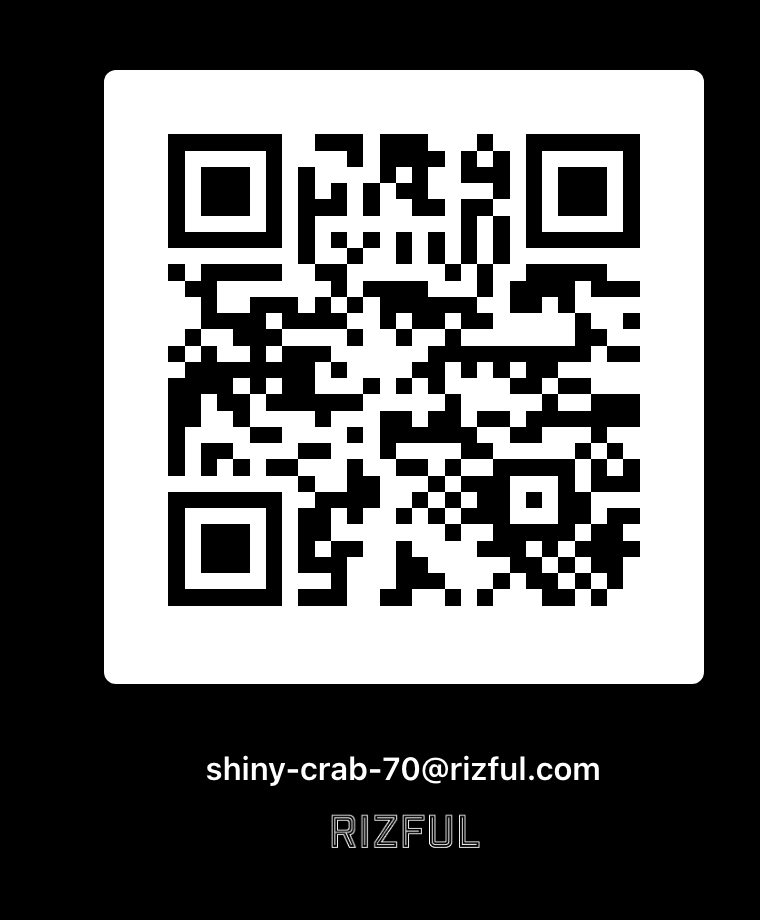
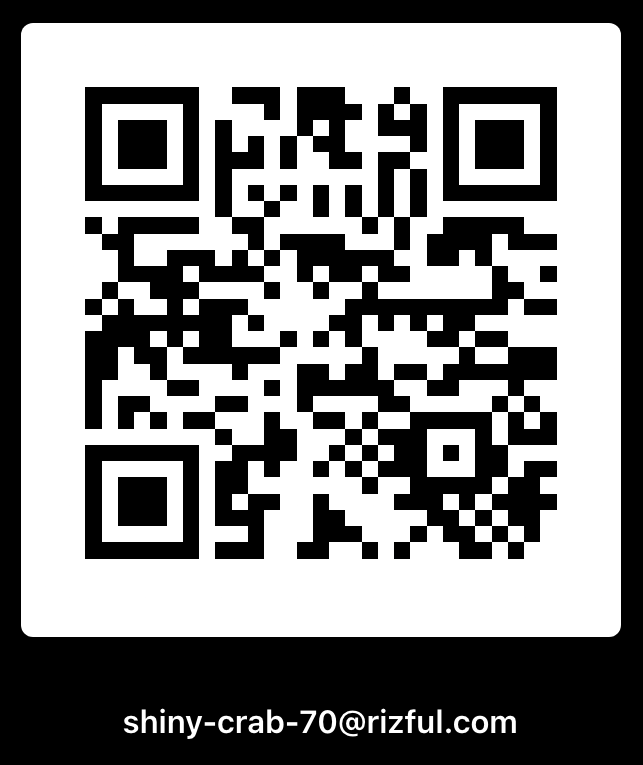
Update landing page, add Download link to sidebar

diff --git a/public/download/index.html b/public/download/index.html
@@ -331,7 +331,7 @@
     .about-col p { opacity: 0.82; line-height: 1.75; margin-bottom: 1.4rem; }
     .about-col .sec-title { margin-bottom: 1.2rem; }
     .qr-code {
-      width: 180px; height: auto;
+      width: 300px; height: auto;
       border-radius: 12px;
       margin-bottom: 1rem;
     }
@@ -342,7 +342,7 @@
       font-size: 0.82rem; opacity: 0.4;
       position: relative; z-index: 1;
     }
-    footer a { color: var(--color-3); text-decoration: none; }
+    footer a { color: #dc85ad; text-decoration: none; }
     footer a:hover { color: var(--color-4); }
 
     /* ── Device Frame Mockup ── */
@@ -552,8 +552,7 @@
         </div>
 
         <div class="card">
-          <span class="badge badge-purple">Standalone App</span>
-          <p>
+<p>
             NoorSigner is an independent desktop application that manages your
             Nostr private keys in a dedicated, secure process. It handles all
             signing operations so that your client never needs direct access to
@@ -570,10 +569,6 @@
           <!-- <div class="screenshot"><img src="noorsigner-screenshot.png" alt="NoorSigner screenshot"></div> -->
 
           <div class="btn-row">
-            <a href="https://github.com/77elements/noorsigner/releases" class="btn btn-outline btn-sm" target="_blank" rel="noopener">
-              <svg viewBox="0 0 24 24" fill="none" stroke="currentColor" stroke-width="2" stroke-linecap="round" stroke-linejoin="round"><path d="M21 15v4a2 2 0 0 1-2 2H5a2 2 0 0 1-2-2v-4"/><polyline points="7 10 12 15 17 10"/><line x1="12" y1="15" x2="12" y2="3"/></svg>
-              Downloads
-            </a>
             <a href="https://github.com/77elements/noorsigner" class="btn btn-ghost btn-sm" target="_blank" rel="noopener">
               <svg viewBox="0 0 24 24" fill="currentColor" width="18" height="18"><path d="M12 .3a12 12 0 0 0-3.8 23.4c.6.1.8-.3.8-.6v-2c-3.3.7-4-1.6-4-1.6-.6-1.4-1.4-1.8-1.4-1.8-1.1-.8.1-.7.1-.7 1.2.1 1.9 1.3 1.9 1.3 1.1 1.8 2.8 1.3 3.5 1 .1-.8.4-1.3.8-1.6-2.7-.3-5.5-1.3-5.5-5.9 0-1.3.5-2.4 1.2-3.2-.1-.3-.5-1.5.1-3.2 0 0 1-.3 3.4 1.2a11.5 11.5 0 0 1 6 0c2.3-1.5 3.3-1.2 3.3-1.2.7 1.7.3 2.9.1 3.2.8.8 1.2 1.9 1.2 3.2 0 4.6-2.8 5.6-5.5 5.9.4.4.8 1.1.8 2.2v3.3c0 .3.2.7.8.6A12 12 0 0 0 12 .3"/></svg>
               GitHub
@@ -606,16 +601,15 @@
           </div>
 
           <div class="card">
-            <span class="badge badge-green">Works Today</span>
-            <p>
+<p>
               NoorNote's web client runs inside
               <a href="https://keychat.io" target="_blank" rel="noopener" style="color:var(--color-4);text-decoration:none;font-weight:600;">Keychat</a>'s
-              built-in browser on both Android and iOS. Keychat is a Nostr-based
+              built-in browser on GrapheneOS, Android and iOS. Keychat is a Nostr-based
               messenger with Signal-level encryption that includes a full web
               browser with extension support.
             </p>
             <p>
-              Open <strong>noornote.app</strong> in Keychat's browser, sign in with
+              Open <strong>NoorNote</strong> in Keychat's Mini-Apps or browser, sign in with
               your Keychat identity, and you have a full Nostr client on your phone
               with your keys managed securely by Keychat itself.
             </p>
@@ -643,7 +637,7 @@
             <h2 class="sec-title"><span class="grad-text">About</span></h2>
             <p>
               NoorNote is built and maintained by
-              <a href="https://noornote.app/profile/npub175nul9cvufswwsnpy99lvyhg7ad9nkccxhkhusznxfkr7e0zxthql9g6w0" target="_blank" rel="noopener" style="color:var(--color-4);text-decoration:none;font-weight:600;">Alp</a>,
+              <a href="https://noornote.app/profile/npub175nul9cvufswwsnpy99lvyhg7ad9nkccxhkhusznxfkr7e0zxthql9g6w0" target="_blank" rel="noopener" style="color:var(--color-4);text-decoration:none;font-weight:600;">Alp</a> <a href="https://mslmdvlpmnt.com/" target="_blank" rel="noopener" style="color:var(--color-4);text-decoration:none;font-weight:600;">[ mslm dvlpmnt ]</a>,
               an independent developer passionate about decentralized
               communication and open-source software.
             </p>
@@ -652,25 +646,28 @@
               entirely by one person, without any grants or corporate backing.
               It is a labor of love for the Nostr ecosystem.
             </p>
-          </div>
-
-          <div class="about-col">
-            <h2 class="sec-title"><span class="grad-text">Support NoorNote</span></h2>
+            <p>
+              NoorNote does not use any tracking services, analytics, or cookies.
+              It does not collect any usage data.
+            </p>
             <p>
               NoorNote lives entirely from the support of its community.
               Every zap and donation helps keep this project alive,
               independent, and free for everyone.
             </p>
-
-            <p style="opacity:0.7;font-size:0.95rem;margin-bottom:0.6rem;">Support via Lightning</p>
-            <img src="rizful-payment-qr-shiny-crab-70.png" alt="Lightning QR Code" class="qr-code">
-
             <div class="btn-row" style="justify-content:flex-start;">
               <a href="https://noornote.app/profile/npub175nul9cvufswwsnpy99lvyhg7ad9nkccxhkhusznxfkr7e0zxthql9g6w0" class="btn btn-primary btn-sm" target="_blank" rel="noopener">
                 <svg viewBox="0 0 24 24" fill="none" stroke="currentColor" stroke-width="2" stroke-linecap="round" stroke-linejoin="round"><polygon points="13 2 3 14 12 14 11 22 21 10 12 10 13 2"/></svg>
                 Zap Me on Nostr
               </a>
             </div>
+          </div>
+
+          <div class="about-col">
+            <h2 class="sec-title"><span class="grad-text">Support NoorNote</span></h2>
+
+            <p style="opacity:0.7;font-size:1rem;margin-bottom:0.6rem;text-align:center;">Support via Lightning</p>
+            <img src="rizful-payment-qr-shiny-crab-70.png" alt="Lightning QR Code" class="qr-code" style="width:100%;max-width:none;">
           </div>
         </div>
       </div>
@@ -680,7 +677,7 @@
 
   <!-- Footer -->
   <footer>
-    <p>NoorNote - Free &amp; Open Source &middot; <a href="https://github.com/77elements/noornote" target="_blank" rel="noopener">GitHub</a></p>
+    <p>NoorNote - Free &amp; Open Source &middot; <a href="https://github.com/77elements/noornote" target="_blank" rel="noopener">GitHub</a> &middot; <a href="https://mslmdvlpmnt.com/imprint/" target="_blank" rel="noopener">Imprint</a></p>
   </footer>
 
   <script>

diff --git a/src/components/layout/MainLayout.ts b/src/components/layout/MainLayout.ts
@@ -35,6 +35,7 @@ import { deactivateAllTabs, switchTabWithContent, createClosableTab } from '../.
 import { ViewTabManager, type ViewTab } from '../../services/ViewTabManager';
 import { PerAccountLocalStorage, StorageKeys } from '../../services/PerAccountLocalStorage';
 import { LayoutService } from '../../services/LayoutService';
+import { PlatformService } from '../../services/PlatformService';
 import { getViewNavigationController } from '../../services/ViewNavigationController';
 import dayjs from 'dayjs';
 import calendarSystems from '@calidy/dayjs-calendarsystems';
@@ -177,10 +178,10 @@ export class MainLayout {
 
     const listsMenuContainer = this.element.querySelector('.primary-nav');
     if (listsMenuContainer) {
-      // Insert after Settings link (before Cache link)
-      const cacheLink = listsMenuContainer.querySelector('.primary-nav__link--cache')?.parentElement;
-      if (cacheLink) {
-        listsMenuContainer.insertBefore(this.listsMenu.createElement(), cacheLink);
+      // Insert after Settings link (before Download link)
+      const downloadLink = listsMenuContainer.querySelector('.primary-nav__link--download')?.parentElement;
+      if (downloadLink) {
+        listsMenuContainer.insertBefore(this.listsMenu.createElement(), downloadLink);
       } else {
         listsMenuContainer.appendChild(this.listsMenu.createElement());
       }
@@ -785,6 +786,21 @@ export class MainLayout {
       });
     }
 
+    // Download link - open in system browser (Tauri) or navigate (web)
+    const downloadLink = this.element.querySelector('.sidebar .primary-nav__link--download');
+    if (downloadLink) {
+      downloadLink.addEventListener('click', async (e) => {
+        e.preventDefault();
+        const url = 'https://noornote.app/download/';
+        if (PlatformService.getInstance().isTauri) {
+          const { open } = await import('@tauri-apps/plugin-shell');
+          await open(url);
+        } else {
+          window.location.href = '/download/';
+        }
+      });
+    }
+
     // Welcome link - reset has_key flag to show welcome screen
     const welcomeLink = this.element.querySelector('.sidebar a[href="/welcome"]');
     if (welcomeLink) {
@@ -1141,6 +1157,16 @@ export class MainLayout {
                   <path d="m21 21-4.35-4.35"></path>
                 </svg>
                 <span class="primary-nav__item-desc">Search</span>
+              </a>
+            </li>
+            <li>
+              <a href="/download/" class="primary-nav__link primary-nav__link--download">
+                <svg class="primary-nav__item-icon" viewBox="0 0 24 24" fill="none" stroke="currentColor" stroke-width="2">
+                  <path d="M21 15v4a2 2 0 0 1-2 2H5a2 2 0 0 1-2-2v-4"></path>
+                  <polyline points="7 10 12 15 17 10"></polyline>
+                  <line x1="12" y1="15" x2="12" y2="3"></line>
+                </svg>
+                <span class="primary-nav__item-desc">Download</span>
               </a>
             </li>
             <li>
